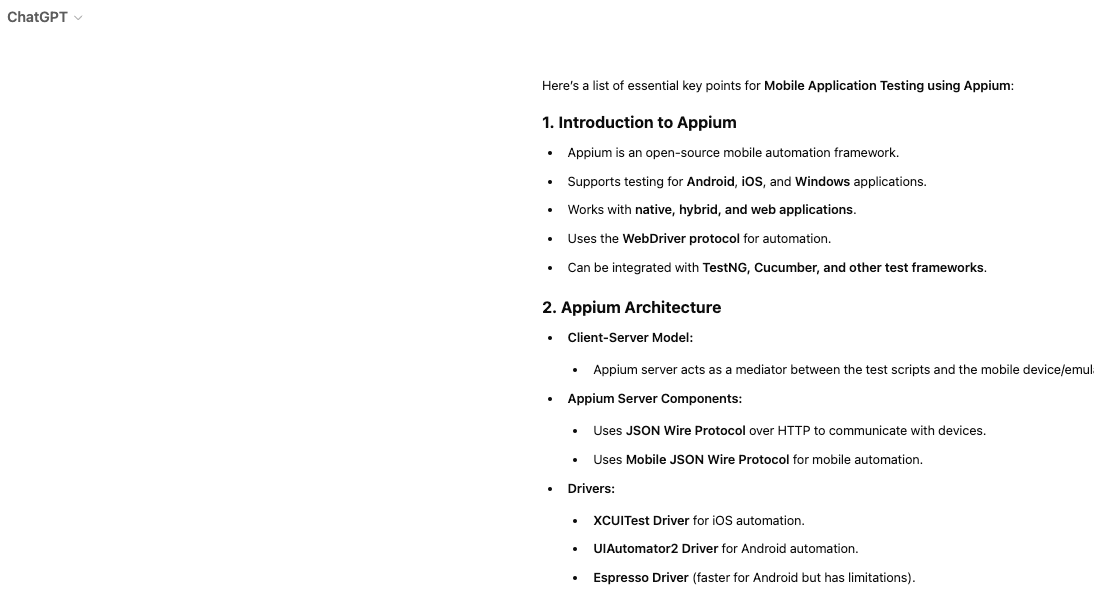
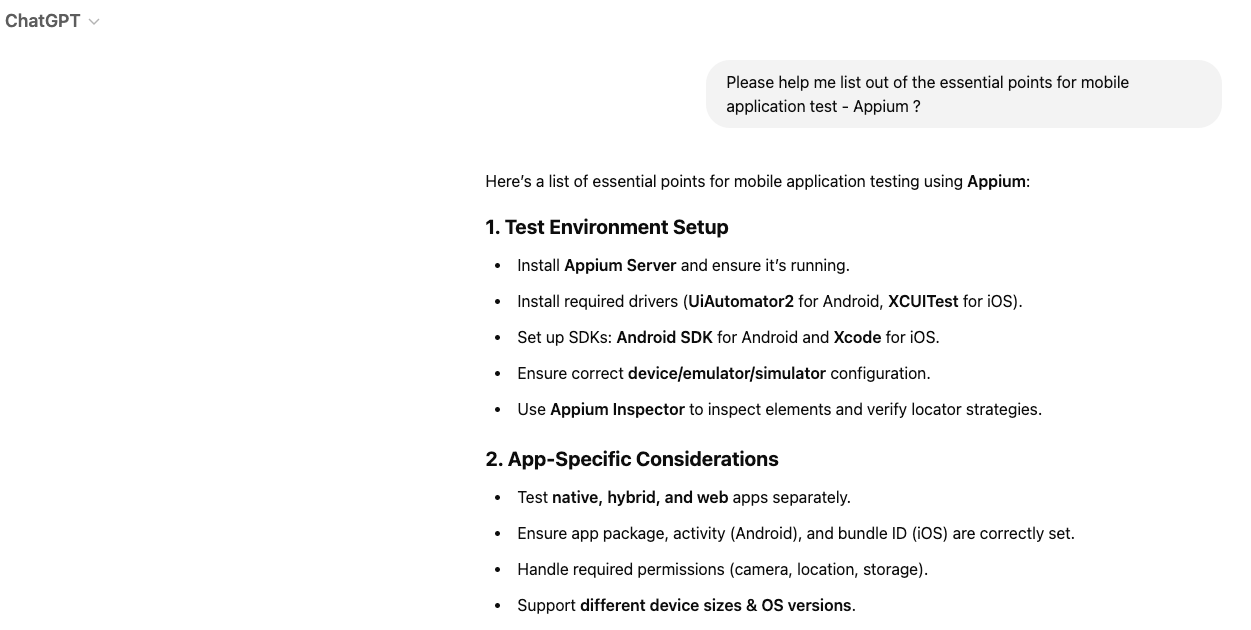
Update: The essential key points for Mobile Application Testing - Appium

Changed region(s): [[0.3729, 0.1196, 1.0, 0.9867], [0.0, 0.0, 0.0622, 0.0598]]

diff --git a/_posts/2025/2025-03-07-Main-keys-for-mobile-application-tessting-appium.md b/_posts/2025/2025-03-07-Main-keys-for-mobile-application-tessting-appium.md
@@ -1,4 +1,4 @@
----
+\fian---
 layout: post
 title:  "Main keys to learn Mobile Application Testing - Appium"
 author: donald
@@ -122,6 +122,7 @@ And here is the answer from ChatGPT
 ![walking]({{ site.baseurl }}/assets/images/mobile-testing/automation-testing/chatgpt-appium-automation-p1.png)
 ![walking]({{ site.baseurl }}/assets/images/mobile-testing/automation-testing/chatgpt-appium-automation-p2.png)
 ![walking]({{ site.baseurl }}/assets/images/mobile-testing/automation-testing/chatgpt-appium-automation-p3.png)
+![walking]({{ site.baseurl }}/assets/images/mobile-testing/automation-testing/chatgpt-appium-automation-p4.png)
 
 I really liked the tutorial ChatGPT provided on Appium lesson suggestion. It covered everything from scratch to the basic levels, preparing us to complete important tasks in automated testing for a mobile application.
 
@@ -134,7 +135,8 @@ However, it did mention the essential points:
 - I did NOT mention a specify programming language that I want to  learn in a mobile automation test course. Therefore, ChatGPT did not mention the essential steps that we should learn with a test framework.
 - From my experiences, I suggest we should apply distributed execution instead of parallel execution in test. It helps us easier to debug the test than using parallel execution.
 
-There are two points that I would really love AI to suggest improvements on: `Performance & Network Testing` and `Regularly cleaning device cache/data before test execution`. Some of these points impact the stability of mobile automation testing, and one point relates to flaky testing.
+There are two points that I would really love AI to suggest improvements on my post: `Performance & Network Testing` and `Regularly cleaning device cache/data before test execution`. Some of these points impact the stability of mobile automation testing, and one point relates to flaky testing.
+And especially about, we must install: Android SDK for Android and Xcode for iOS to run automation test for android and ios devices.
 
 [//]: # ([![10 keys for web application testing #shorts #mobile]&#40;https://img.youtube.com/vi/cYTZdLm1uxI/0.jpg&#41;]&#40;https://www.youtube.com/watch?v=cYTZdLm1uxI&#41;)
 [//]: # ()
